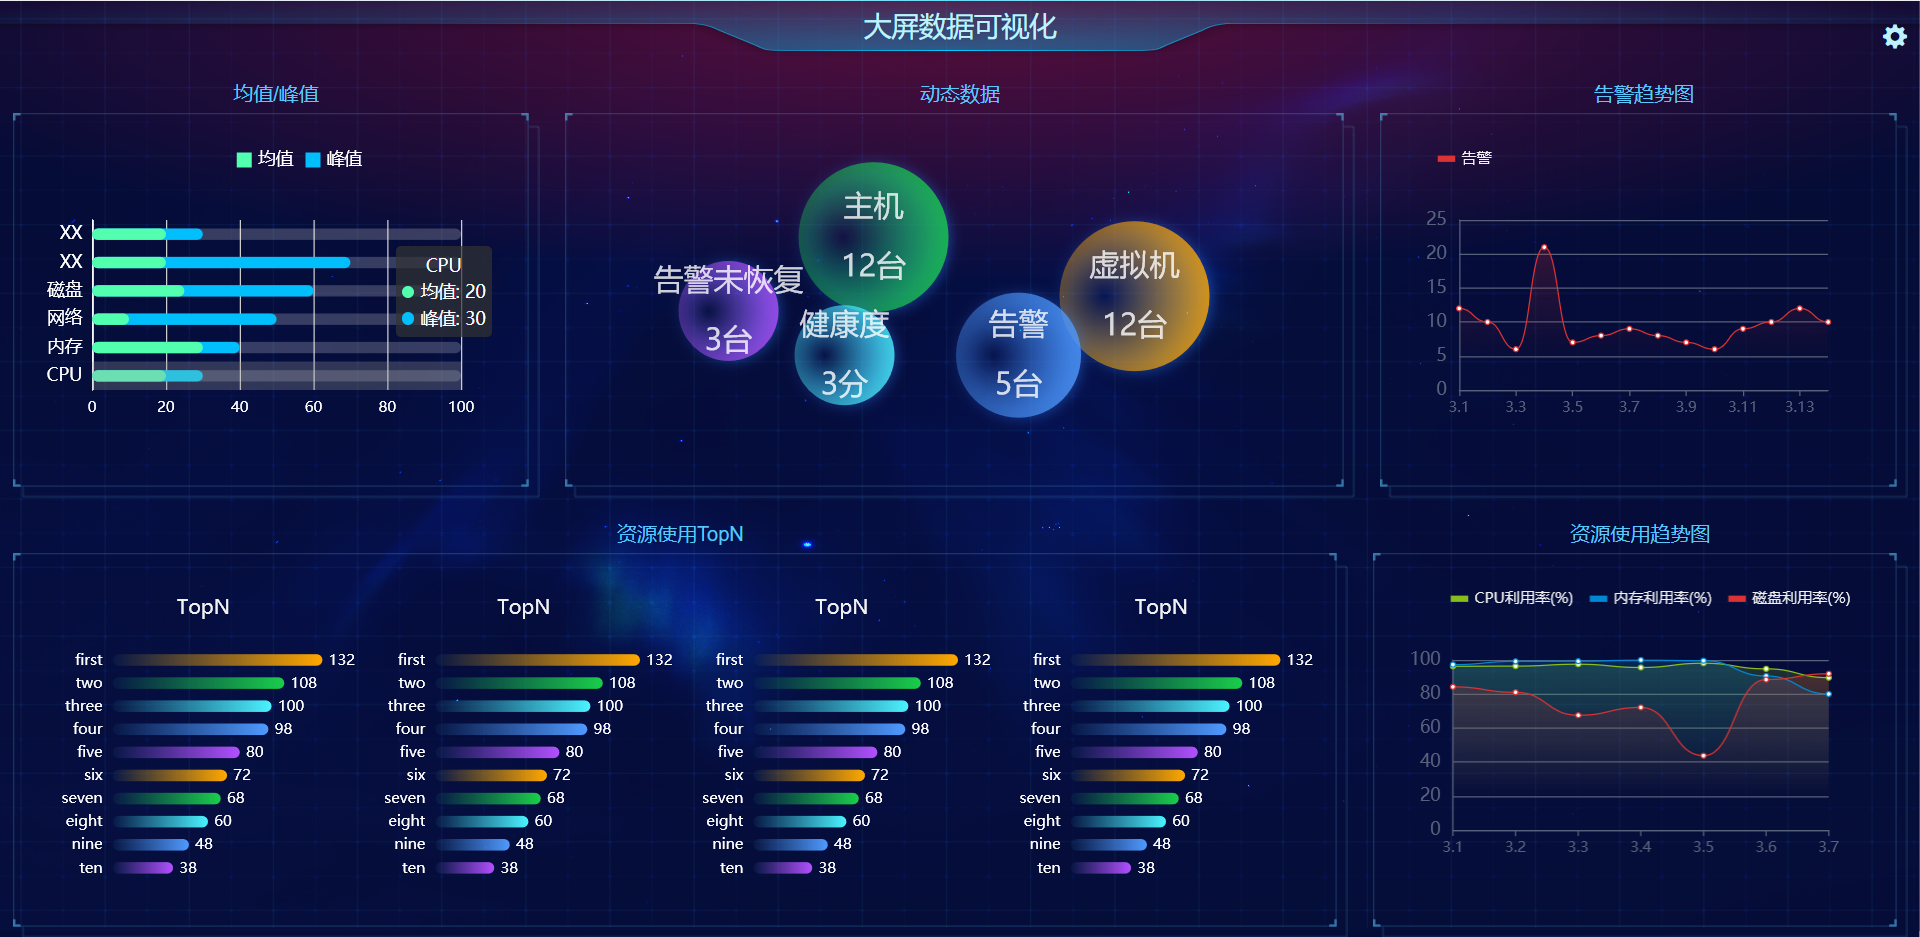
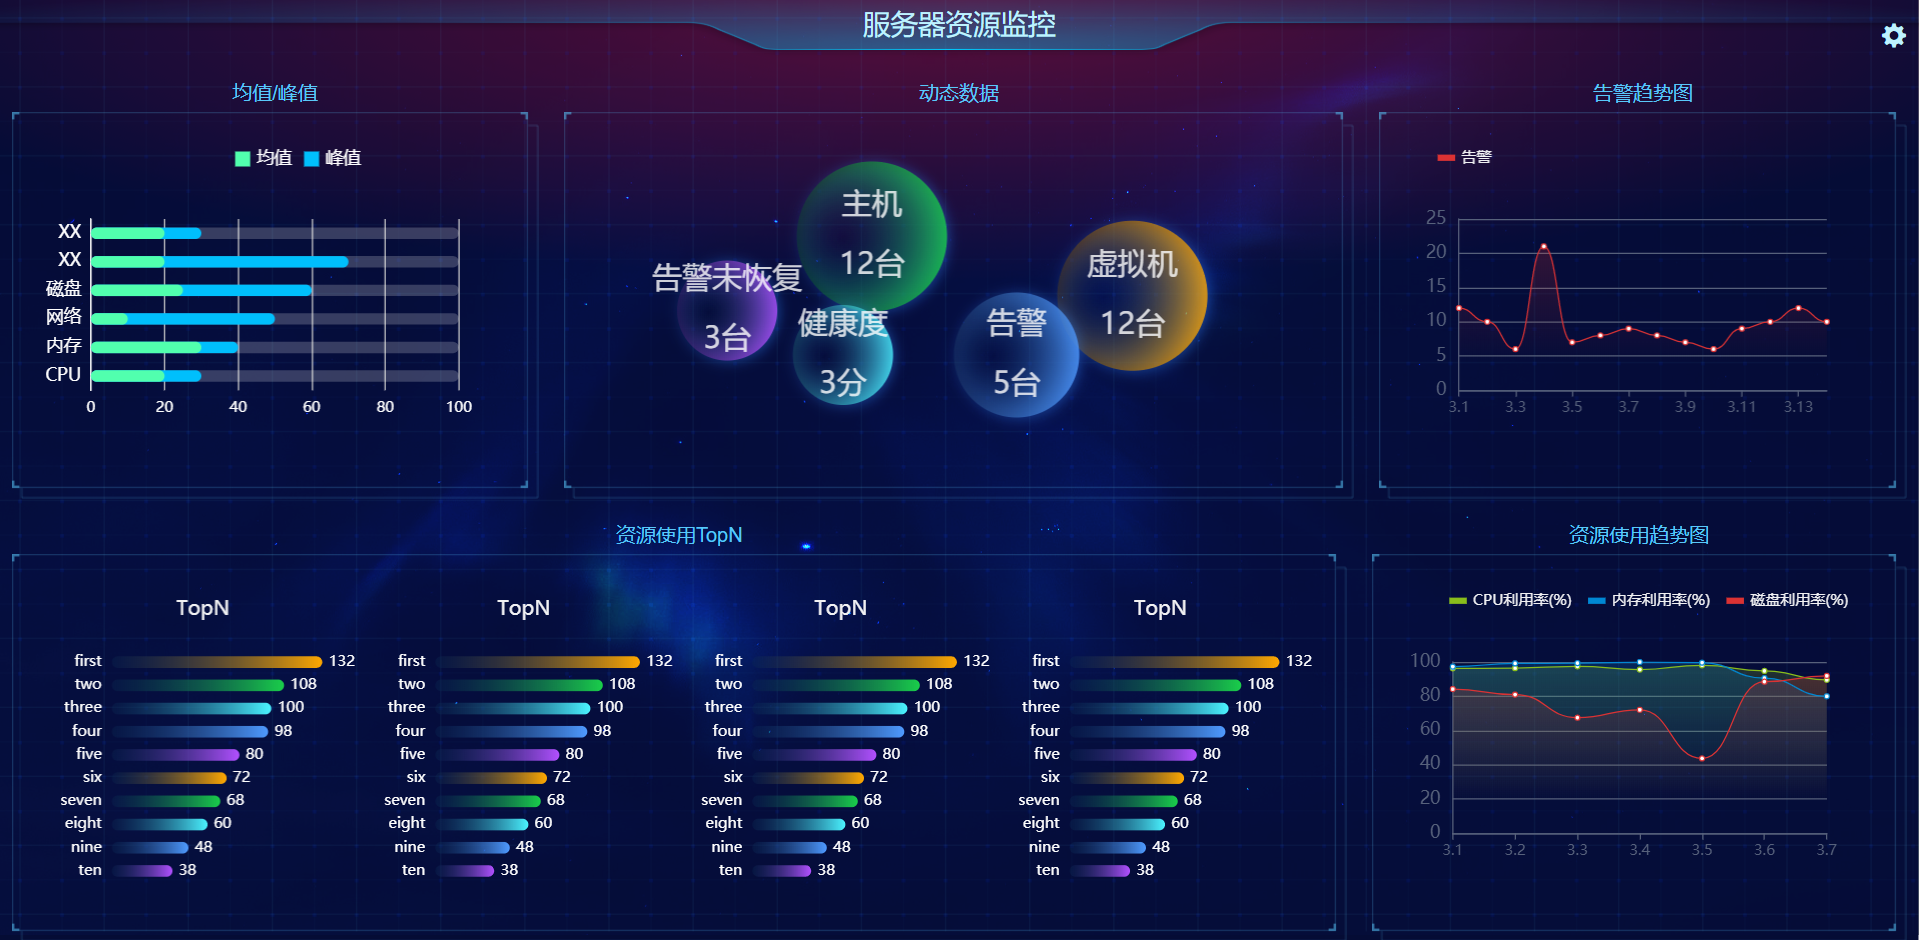
优化案例10

diff --git a/iDataV/case10/index.html b/iDataV/case10/index.html
@@ -12,7 +12,7 @@
 
 	<body>
 		<header id="header">
-			<h3 class="header-title" style="margin: 0">大屏数据可视化</h3>
+			<h3 class="header-title" style="margin: 0">服务器资源监控</h3>
 
 			<span class="glyphicon glyphicon-cog"  style="position: absolute;right: 1rem;top: 2rem;color: #bef2ff;font-size:2rem;" data-toggle="modal" data-target="#myModal"></span>
 
